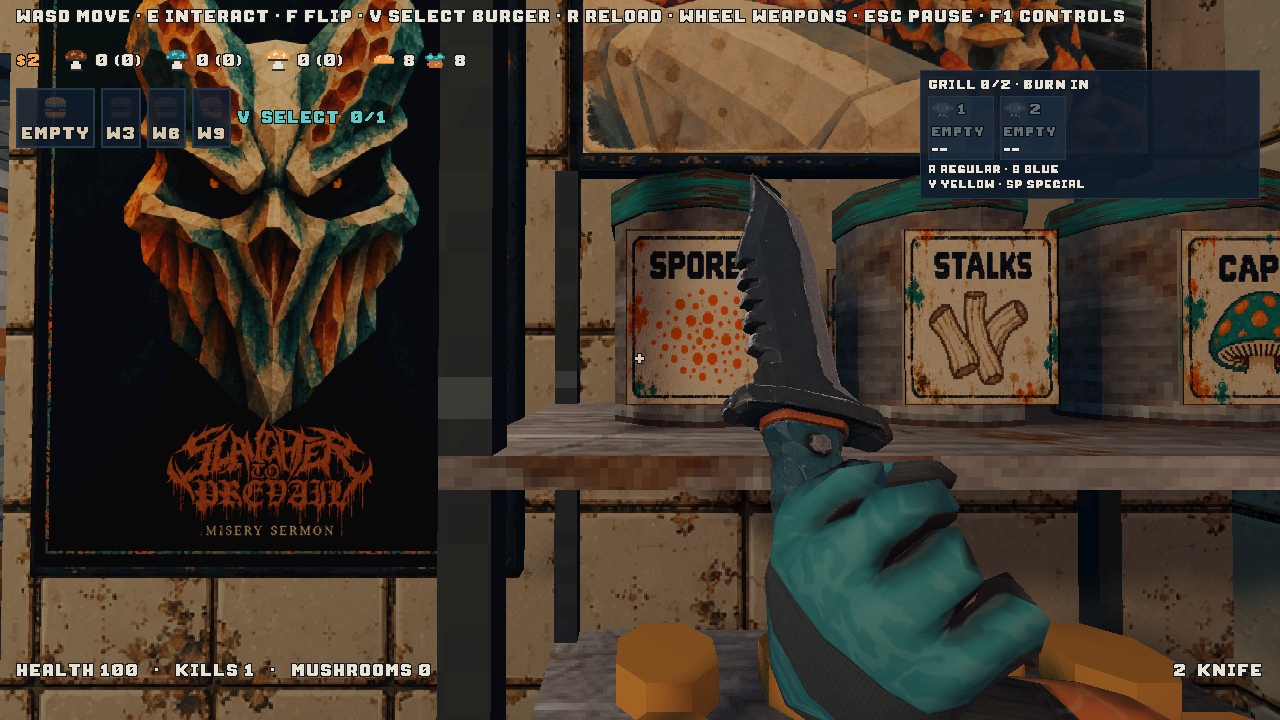
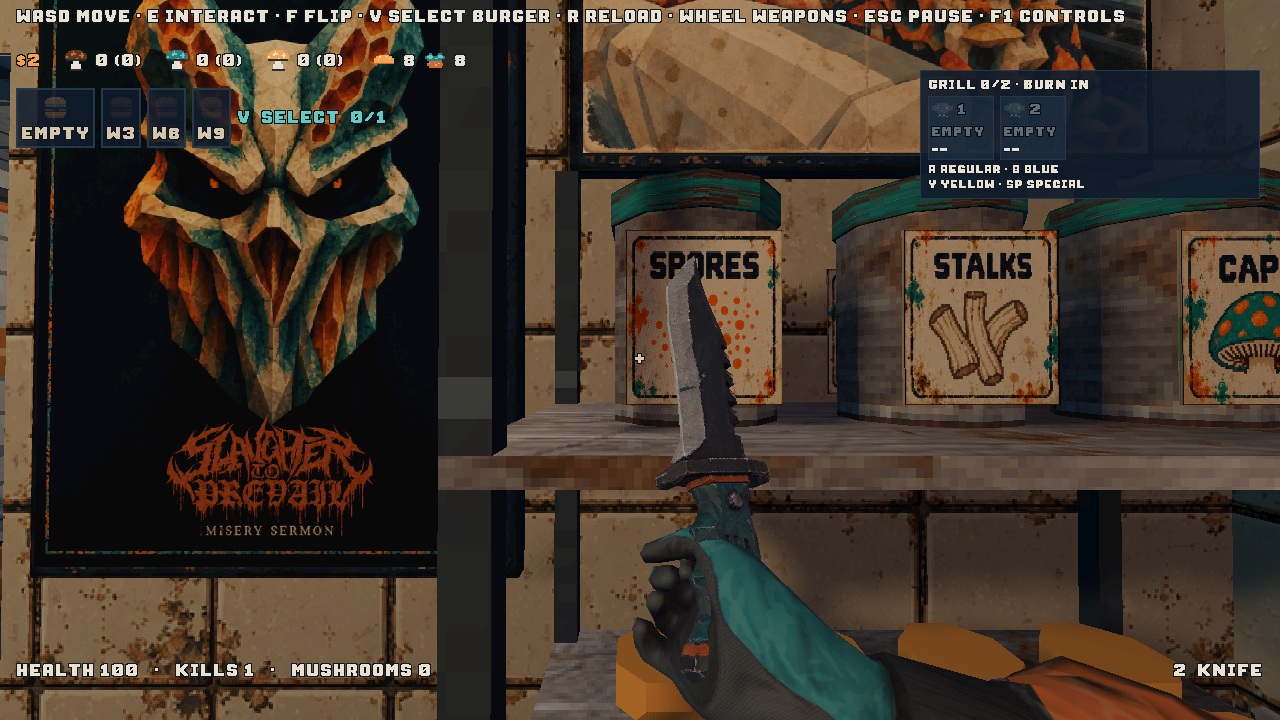
Reverse the knife grip roll to minus 100 degrees
Knife gameplay, viewmodel and shared-arm checks pass; native idle and action captures reviewed.

Changed region(s): [[0.4688, 0.2444, 0.9688, 1.0]]

diff --git a/docs/handover/WEAPON_HAND_PLACEMENT.md b/docs/handover/WEAPON_HAND_PLACEMENT.md
@@ -6,8 +6,8 @@ damage and attack timings remain unchanged. The adjustment rotates the forearm's
 approach instead of moving the whole knife sideways or letting the wrist drift.
 Other weapon fits retain the default shoulder location.
 
-Owner follow-up: the survival knife grip rolls a further 100 degrees towards the
-camera/right about its own blade axis at the hand bone. A rigid presentation
+Owner follow-up: the survival knife grip rolls 100 degrees in the reverse
+direction (-100 degrees) about its own blade axis at the hand bone. A rigid presentation
 transform carries blade and fingers together, retaining the wrist location and
 blade direction without deforming the authored skin. The alternate dagger is
 explicitly excluded. `KNIFE_WRIST_ROLL` in knife_weapon.gd controls this turn;
